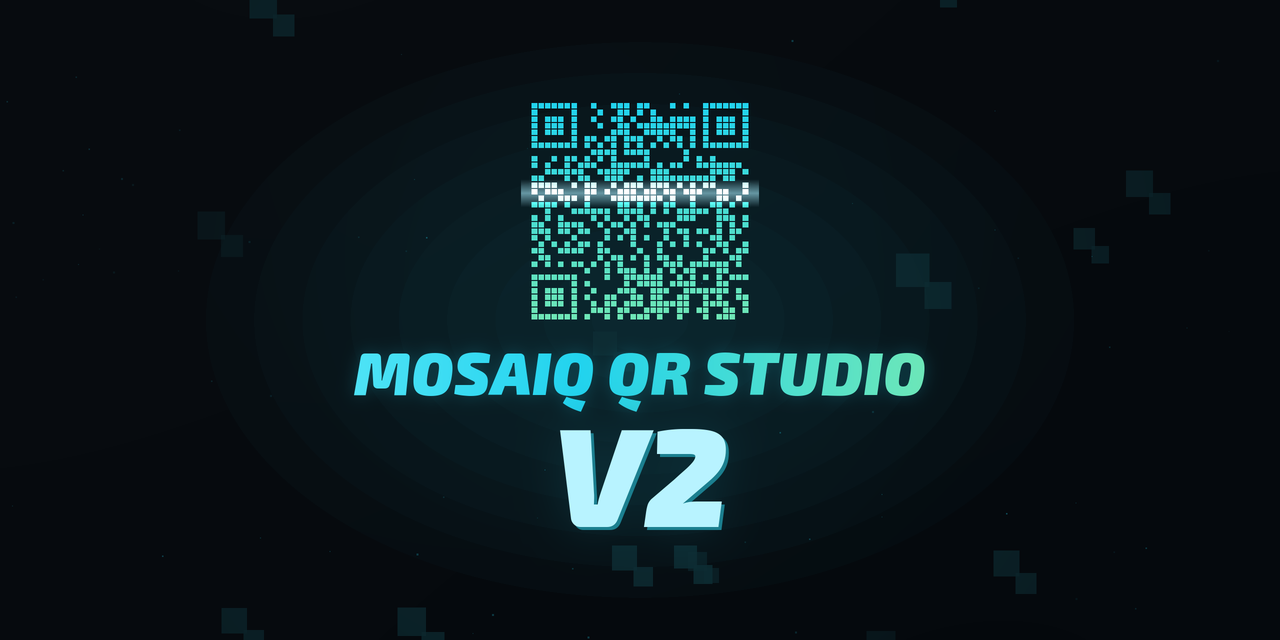
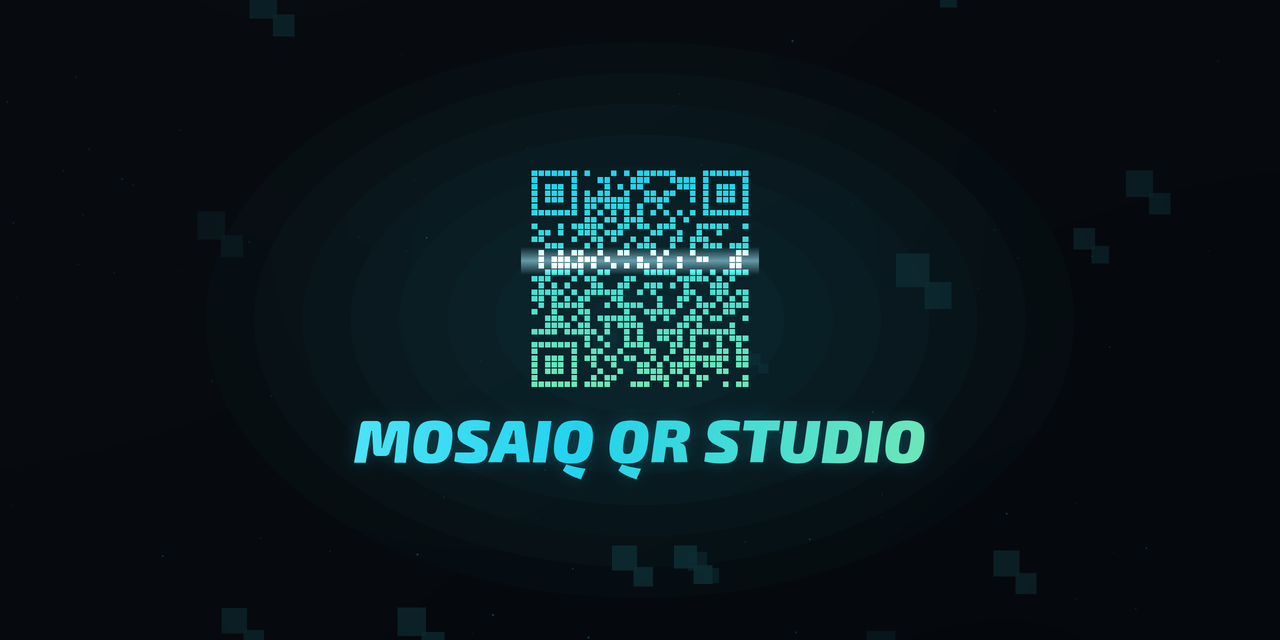
Drop "V2" from the splash
- Remove the big "V2" line under the title (layer, glow, shadow and its
  STROKE colour) and centre the QR + "MOSAIQ QR STUDIO" title on the frame.
- The splash QR now encodes "MOSAIQ QR STUDIO - CREATE, STYLE AND SCAN
  ANYTHING" (still version 4, 33 x 33, ECC M).
- Splash validation: layout numbers re-derived without the V2 line, plus
  centring and no-V2 checks.
- Re-rendered splash thumbnails.

The sidebar keeps "v2.0"; the settings folder is unchanged.

Changed region(s): [[0.25, 0.1562, 0.75, 0.8438]]

diff --git a/ui/splash.py b/ui/splash.py
@@ -110,12 +110,12 @@ STATIC_T = 3400
 # --- Palettes ---------------------------------------------------------------
 # Three coordinated looks shared by the splash (and, later, the app shell).
 # Aqua Mint is the reference palette, so the historic module-level names (BG, A,
-# B, ICE, GLOW, DEEP, STROKE and their normalised _F copies) still resolve to
+# B, ICE, GLOW, DEEP and their normalised _F copies) still resolve to
 # exactly the values they had before.
 #
 #   BG     near-black base           A0/A/B  title gradient A0 -> A -> B
 #   GLOW   restrained ambient glow   DEEP    drifting pixel pairs
-#   ICE    highlight / scan bar      STROKE  V2 hard shadow
+#   ICE    highlight / scan bar
 #
 # The QR row gradient is A -> B, so each palette spans its own two accents.
 
@@ -131,7 +131,6 @@ PALETTES = {
         "ICE": (184, 243, 255),
         "GLOW": (16, 72, 84),
         "DEEP": (13, 45, 52),
-        "STROKE": (27, 127, 143),
     },
     # Deep violet base, lilac -> pink core (reference page's "violet").
     "Ultraviolet": {
@@ -142,7 +141,6 @@ PALETTES = {
         "ICE": (240, 226, 255),
         "GLOW": (62, 32, 104),
         "DEEP": (34, 20, 62),
-        "STROKE": (96, 56, 168),
     },
     # Warm charcoal base, gold -> orange -> rose core (reference "ember").
     "Ember": {
@@ -153,7 +151,6 @@ PALETTES = {
         "ICE": (255, 236, 210),
         "GLOW": (104, 46, 22),
         "DEEP": (54, 28, 18),
-        "STROKE": (160, 74, 32),
     },
 }
 
@@ -165,7 +162,6 @@ B = _DEFAULT_COLORS["B"]
 ICE = _DEFAULT_COLORS["ICE"]
 GLOW = _DEFAULT_COLORS["GLOW"]
 DEEP = _DEFAULT_COLORS["DEEP"]
-STROKE = _DEFAULT_COLORS["STROKE"]
 
 # Normalised ([0, 1]) copies of the default palette. The renderer itself reads
 # the palette off the Scene (see Scene._apply_palette); these remain for the
@@ -315,7 +311,7 @@ def splash_rect(root):
 # =============================================================================
 # _Geometry — colour-agnostic scene data, built once per (W, H, ss) and shared
 # by every palette. The QR matrix, module / particle constants, ambient layout,
-# radial fields and the wordmark + V2 glyph masks do not depend on colour, so
+# radial fields and the title glyph mask do not depend on colour, so
 # switching palettes never pays for them twice. The palette-dependent paint
 # lives in :class:`Scene`, which delegates everything else here.
 # =============================================================================
@@ -419,15 +415,14 @@ class _Geometry:
         self.S = min(0.52 * W, 0.34 * H, 300)
         self.gap1 = clamp(0.03 * H, 14, 28)
         self.titleFS = clamp(0.072 * W, 26, 60)
-        self.verFS = clamp(0.17 * W, 72, 140)
         self.title_box_h = 1.05 * self.titleFS
-        self.ver_box_h = 0.95 * self.verFS
-        total = self.S + self.gap1 + self.title_box_h + 2 + self.ver_box_h
+        # QR + title only; the reference's "V2" line under the title was
+        # dropped for the Mosaiq branding, so the pair is centred on its own.
+        total = self.S + self.gap1 + self.title_box_h
         top = (H - total) / 2
         self.qr_x = (W - self.S) / 2
         self.qr_y = top
         self.title_box_top = top + self.S + self.gap1
-        self.ver_box_top = self.title_box_top + self.title_box_h + 2
         # QR cell geometry.
         self.cell = self.S / self.N
         self.size = 0.84 * self.cell
@@ -436,7 +431,6 @@ class _Geometry:
         # Baselines via the half-leading model (ascent 0.999, descent 0.201,
         # content 1.2 em) so glyph baselines land on the reference numbers.
         self.title_base = self.title_box_top + (self.title_box_h - CONTENT_EM * self.titleFS) / 2 + ASCENT_EM * self.titleFS
-        self.ver_base = self.ver_box_top + (self.ver_box_h - CONTENT_EM * self.verFS) / 2 + ASCENT_EM * self.verFS
 
     # -- Module / particle constants as arrays (buffer pixels) ---------------
     def _build_qr_arrays(self):
@@ -514,12 +508,12 @@ class _Geometry:
         self._e0g = np.sqrt(gxr[None, :] ** 2 + (gyr[:, None] / 0.64) ** 2).astype(np.float32)
         self._vig_g = self._vig[gy0:gy1, gx0:gx1]
 
-    # -- Text glyph masks (title + V2) — palette independent --------------------
+    # -- Title glyph mask — palette independent ----------------------------------
     def _build_glyphs(self):
-        """Glyph coverage of the title and V2 layers, plus their alpha.
+        """Glyph coverage of the title layer, plus its alpha.
 
-        Each mask is padded by 3 sigma so its blurred glow is never clipped.
-        The layers are stacked with exact source-over alpha
+        The mask is padded by 3 sigma so its blurred glow is never clipped.
+        The fill sits over the glow with exact source-over alpha
         (a = a_top + a_below * (1 - a_top)); only the colours depend on the
         palette (see :meth:`Scene._apply_palette`).
         """
@@ -536,24 +530,6 @@ class _Geometry:
         self._title_width = width
         self._title_glow = self._blur(mask, t_sigma) * 0.22
         self._title_alpha = mask + self._title_glow * (1.0 - mask)
-
-        # V2, bottom to top: glow (sigma 22 at 140 px, GLOW at 0.55), hard
-        # shadow (+3 px, +3 px at 140 px, opaque STROKE), ICE fill. Sigma and
-        # offset scale with the font size relative to the 140 px reference.
-        v_sigma = 22.0 * self.verFS / 140.0 * ss
-        sh = max(1, int(round(3.0 * self.verFS / 140.0 * ss)))
-        pad = max(int(math.ceil(3.0 * v_sigma)) + 2, sh + 2)
-        x0, y0, mask, width = self._glyph_mask(
-            "V2", self._font(self.verFS), 0.0, self.ver_base, self.W / 2.0, pad_px=pad)
-        self._v2_ox, self._v2_oy = x0, y0
-        self._v2_mask = mask
-        self._v2_width = width
-        self._sh_x = self._sh_y = sh
-        self._v2_glow = self._blur(mask, v_sigma) * 0.55
-        self._v2_shadow = np.zeros_like(mask)      # the padding keeps it in the box
-        self._v2_shadow[sh:, sh:] = mask[:-sh, :-sh]
-        under = self._v2_shadow + self._v2_glow * (1.0 - self._v2_shadow)
-        self._v2_alpha = mask + under * (1.0 - mask)
 
     # -- Fonts (pixel resolution) --------------------------------------------
     def _font(self, css_px):
@@ -603,7 +579,7 @@ class _Geometry:
 # Everything colour-agnostic lives in the cached geometry (QR matrix, module /
 # particle constants, ambient layout, radial fields, glyph masks + alpha). This
 # class owns only what a palette switch must recompute: the QR row gradient,
-# the wordmark / V2 colour layers, the per-palette colour arrays and the
+# the title colour layer, the per-palette colour arrays and the
 # background plate. A switch is a few milliseconds and never touches the
 # timeline, the window or the geometry.
 # =============================================================================
@@ -724,13 +700,6 @@ class Scene:
         g = self._title_glow[..., None]
         self._title_layer = (grad[None, :, :] * m + acc_a * g * (1.0 - m)).astype(np.float32)
 
-        # --- V2: ICE fill over the STROKE shadow over the GLOW halo --------
-        stroke = np.array(col["STROKE"], np.float32) / 255.0
-        f = self._v2_mask[..., None]
-        s = self._v2_shadow[..., None]
-        g = self._v2_glow[..., None]
-        under = stroke * s + glow * g * (1.0 - s)
-        self._v2_layer = (ice * f + under * (1.0 - f)).astype(np.float32)
 
 
 # =============================================================================
@@ -1068,14 +1037,12 @@ def render_frame_into(sc, out, u8, t_ms, ts_ms=None, tiles=None, overlays=()):
                 if drawn is not None:
                     mark_many(*drawn)
 
-    # 5) Title, then V2 (drawn last), each one group at opacity alpha_title(t).
+    # 5) Title, as one group at opacity alpha_title(t).
     ta = title_alpha(t)
     if ta > 0:
         _blit_over(out, sc._title_layer, sc._title_alpha, sc._tx0, sc._ty0, ta)
-        _blit_over(out, sc._v2_layer, sc._v2_alpha, sc._v2_ox, sc._v2_oy, ta)
-        for (lay, ox_, oy_) in ((sc._title_alpha, sc._tx0, sc._ty0),
-                                (sc._v2_alpha, sc._v2_ox, sc._v2_oy)):
-            mark(ox_, oy_, ox_ + lay.shape[1], oy_ + lay.shape[0])
+        lay = sc._title_alpha
+        mark(sc._tx0, sc._ty0, sc._tx0 + lay.shape[1], sc._ty0 + lay.shape[0])
 
     # 6) Overlays on top of everything (the palette chips).
     for (layer, alpha, ox_, oy_) in overlays:
@@ -1120,10 +1087,10 @@ def render_frame(t_ms, ts_ms=None):
 
 
 # =============================================================================
-# Title / V2 alpha and static layer helpers
+# Title alpha and static layer helpers
 # =============================================================================
 def title_alpha(t):
-    """Opacity of the title + V2 layers as defined by the reference spec."""
+    """Opacity of the title layer as defined by the reference spec."""
     if t < FO0:
         return 1.0
     if t < FO1:

diff --git a/ui/_splash_validation.py b/ui/_splash_validation.py
@@ -8,7 +8,8 @@ Implements section 7 of the reference spec (reference/qr-splash-reference.html):
 2. Numeric checks: one module per dark cell of reference/qr_matrix.json; all
    formed (e = 1) by t = 2.8 s; none broken at t = 4.4 s; no particle left at
    t >= 8.5 s (the last ends by 8440 ms); alpha_title at 0 / 2.6 / 7.6 / 8.8 s;
-   the mulberry32 self-test; the section 2 layout numbers at 1280x800.
+   the mulberry32 self-test; the section 2 layout numbers at 1280x800
+   (re-centred without the reference's "V2" line).
 3. Frame time of ``render_frame_into`` over the one-shot timeline. The
    on-screen blit (PhotoImage paste + canvas redraw) adds ~8 ms on top.
 
@@ -85,22 +86,22 @@ def main():
           "mulberry32(3) self-test")
 
     title_x = sc.W / 2.0 - sc._title_width / 2.0
-    ver_x = sc.W / 2.0 - sc._v2_width / 2.0
     pad = 0.12 * sc.titleFS
+    # Reference numbers, with the reference's "V2" line removed: QR (272) +
+    # gap (24) + title box (63) = 359 px, centred in 800 -> top at 220.5.
     for label, got, want in (
             ("QR slot x", sc.qr_x, 504.0),
-            ("QR slot y", sc.qr_y, 153.0),
+            ("QR slot y", sc.qr_y, 220.5),
             ("QR side", sc.S, 272.0),
-            ("title line box top", sc.title_box_top, 449.0),
-            ("title line box bottom", sc.title_box_top + sc.title_box_h, 512.0),
-            ("title baseline", sc.title_base, 504.0),
-            ("V2 line box top", sc.ver_box_top, 514.0),
-            ("V2 line box bottom", sc.ver_box_top + sc.ver_box_h, 647.0),
-            ("V2 baseline", sc.ver_base, 636.0),
-            ("V2 text x", ver_x, 552.1),
-            ("V2 text width", sc._v2_width, 175.7)):
+            ("title line box top", sc.title_box_top, 516.5),
+            ("title line box bottom", sc.title_box_top + sc.title_box_h, 579.5),
+            ("title baseline", sc.title_base, 571.9)):
         check(abs(got - want) <= LAYOUT_TOLERANCE_PX,
-              "%s %.1f (reference %.1f)" % (label, got, want))
+              "%s %.1f (expected %.1f)" % (label, got, want))
+    bottom = sc.H - (sc.title_box_top + sc.title_box_h)
+    check(abs(sc.qr_y - bottom) <= LAYOUT_TOLERANCE_PX,
+          "QR + title centred vertically (top %.1f, bottom %.1f)" % (sc.qr_y, bottom))
+    check(not hasattr(sc, "_v2_layer"), "no V2 layer in the scene")
     # The reference measured the title x / width for "QR CODE STUDIO"; the
     # rebranded title is checked for centring and for fitting in the frame.
     check(abs(title_x + sc._title_width / 2.0 - sc.W / 2.0) <= LAYOUT_TOLERANCE_PX,
